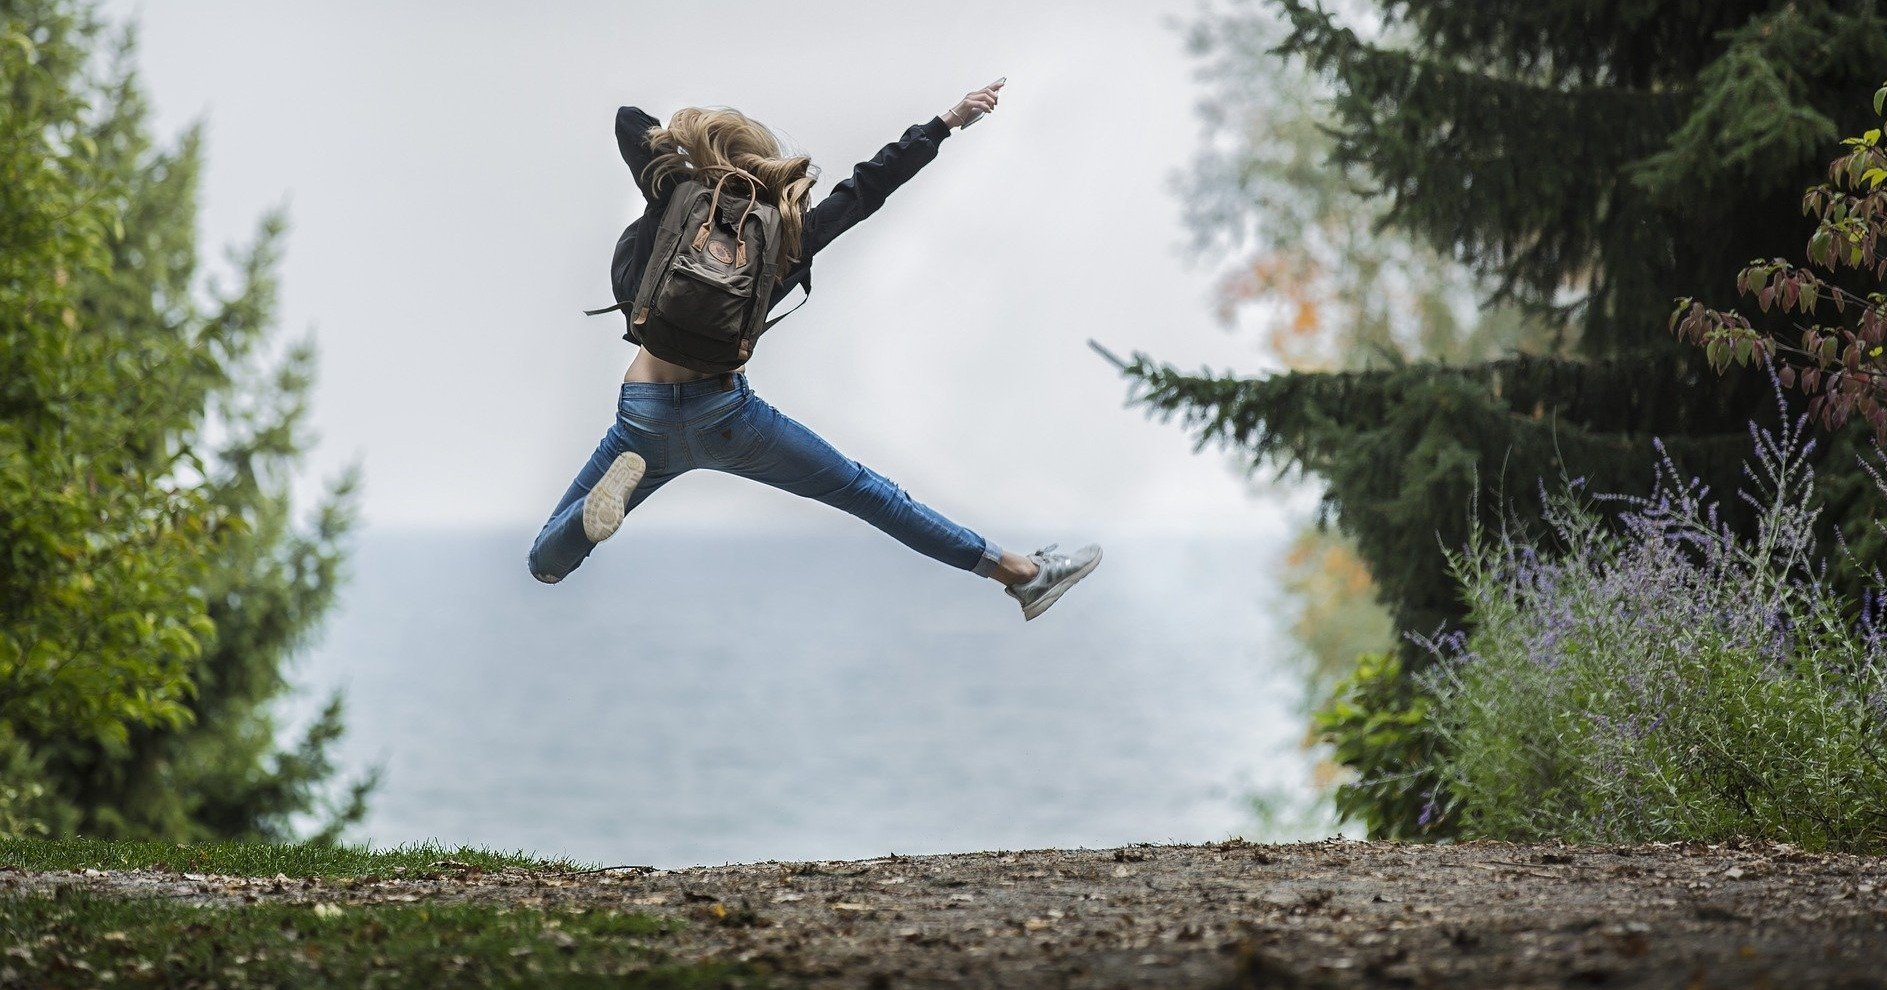
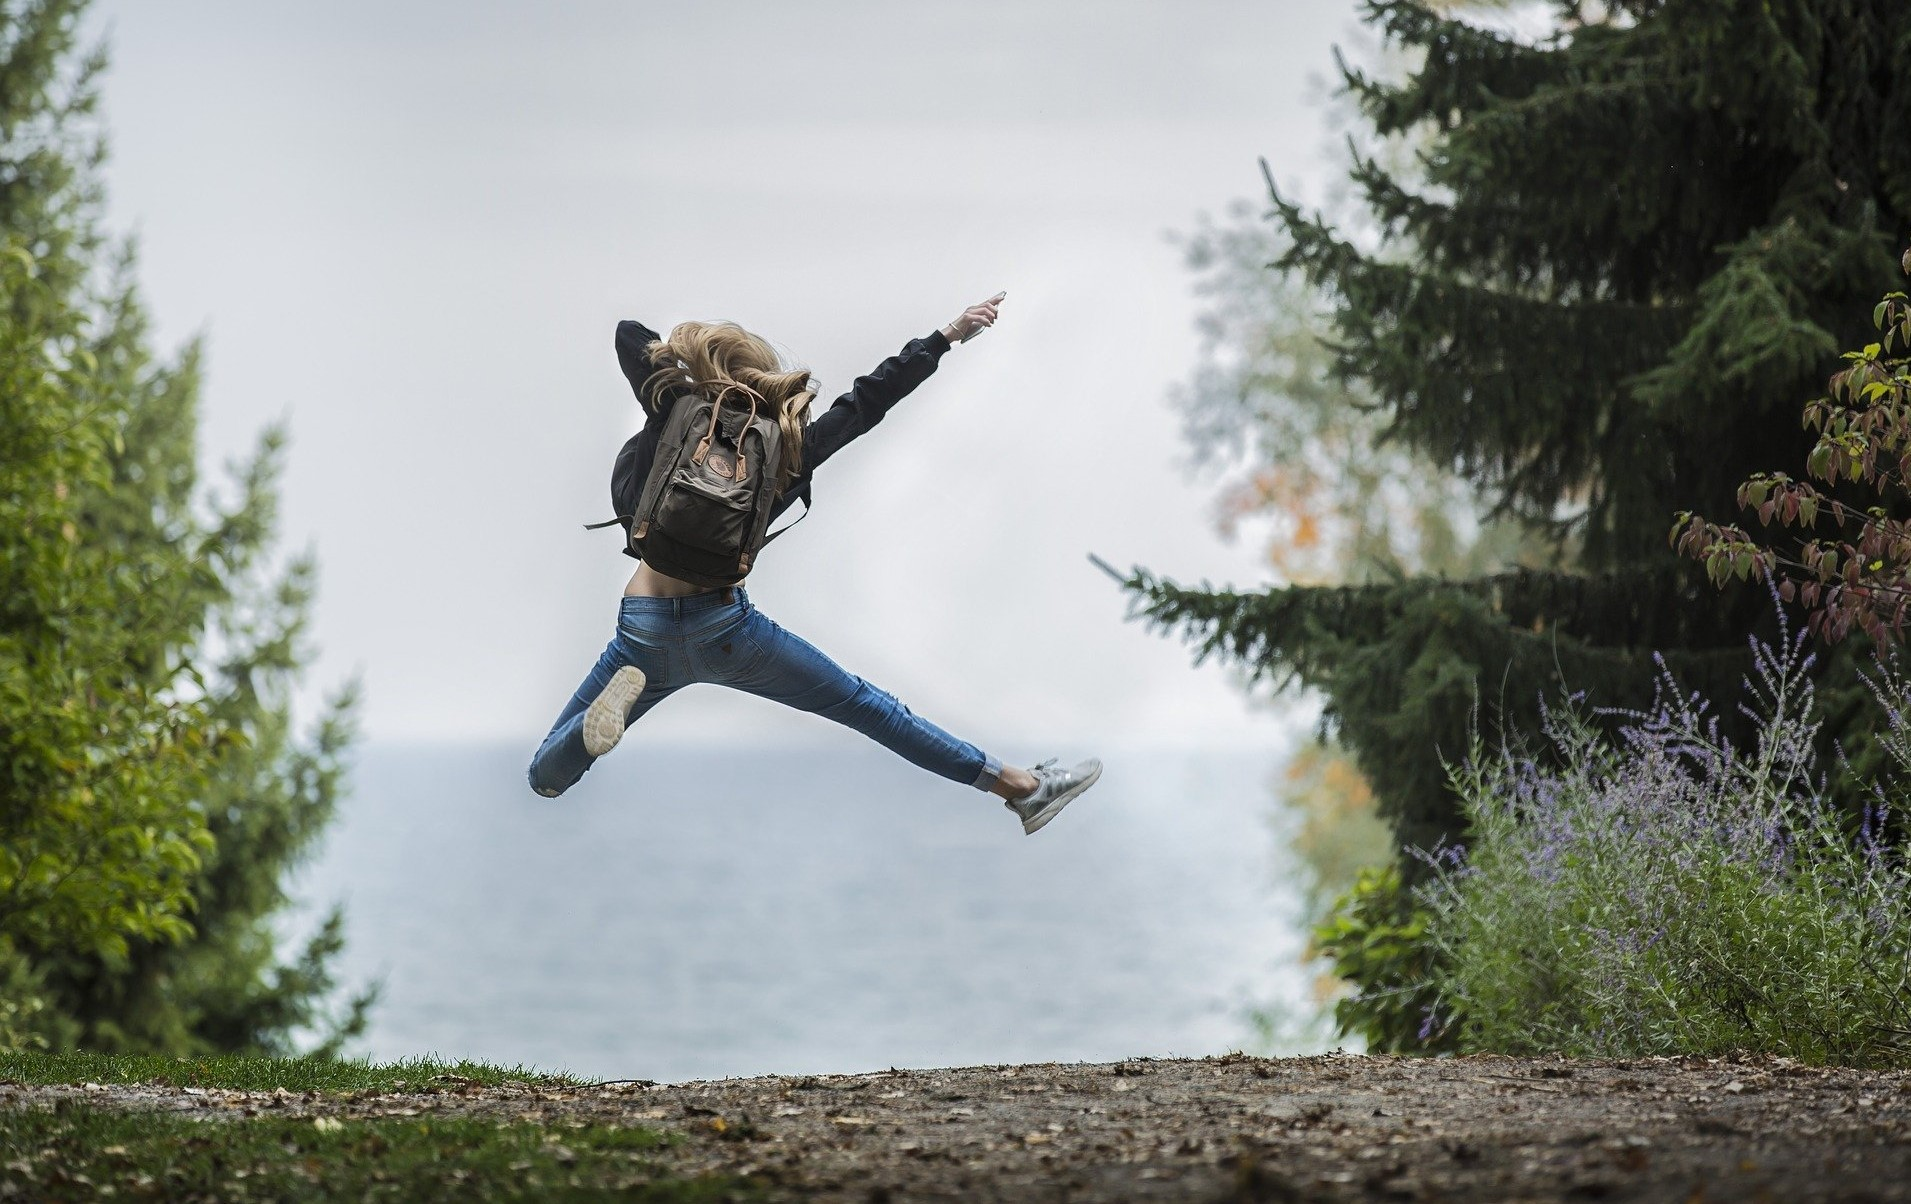
springboard page - add text, changed nav bar, added header and adjusted main image

diff --git a/springboard.html b/springboard.html
@@ -13,26 +13,70 @@
 <Header>
 <!--curtain nav bar-->
 <div class="container-fluid">
-    <div id="myNav" class="springboard-overlay">
-        <div class="closemenu">&times;
-            <div class="springboard-overlay-content">
-                <a href="index.html">Homepage</a>
-                <a href="therapies.html">Therapies</a>
-                <a href="contact.html">Contact</a>
-                <a href="springboard.html">"Springboard"</a>
+    <div class="row no-gutters">
+        <div class="col-lg-6 springboard-header">
+            <h1>Springboard</h1>
+            <h3>creating a better you</h3>
+        </div>
+        <div class="col-lg-6" id="springboard-nav">
+            <nav class="navbar navbar-expand-md bg-light navbar-light">
+                <button class="navbar-toggler" type="button" data-toggle="collapse" data-target="#collapsibleNavbar">
+                    <span class="navbar-toggler-icon"></span>
+                </button>
+                    <div class="collapse navbar-collapse" id="collapsibleNavbar">
+                        <ul class="navbar-nav">
+                            <li class="nav-item">
+                                <a class="nav-link" href="index.html">Home</a>
+                            </li>
+                            <li class="nav-item">
+                                <a class="nav-link" href="therapies.html">Therapies</a>
+                            </li>
+                            <li class="nav-item">
+                                <a class="nav-link" href="contact.html">Contact Me</a>
+                            </li>  
+                            <li class="nav-item">
+                                <a class="nav-link active" href="springboard.html">"Springboard"</a>
+                            </li>  
+                        </ul>
+                    </div>      
+            </nav>
+        </div>
+    </div>
+</Header>
+<section>
+<!--springboard main image-->
+    <div class="row no-gutters">
+        <div class="col-12">
+            <div class="springboard-image">
+                <h3></h3>
             </div>
         </div>
     </div>
-    <span class="openmenu">&#9776;</span>
-</Header>
-<section>
-<!--Springboard hero image-->
+<!--springboard main text-->
     <div class="row no-gutters">
-        <div class="col-12 springboard-image">
-            <div class="springboard-image-text">
-                <h1>Springboard</h1>
-                <h3>creating a better you...<h3>
+        <div class="col-12 springboard-text">
+            <h4>Did you wake up this morning full of energy and enthusiasm for the day ahead? Do you have a clear direction in life, know where you are going and how you are going to get there?
+            No?... Maybe Springboard can help!</h4>
+            <p>Springboard offers a starting point for those wanting to improve their lives physically, mentally and spiritually. Run by two health practitioners with many years’ experience, and expertise in a variety of therapies, we aim to give participants at our weekend workshops a gentle and supportive introduction to the simple ways in which they can begin to turn their lives around.</p>
+            <p>Our passion is to help people achieve their health goals. We limit our weekends to a small number of participants to make sure that everyone gets the personal attention they need. Each weekend is tailored to provide information, interaction, strategies, and techniques to take away and use.</p> 
+            <p>Our location in the beautiful Welsh countryside, together with delicious healthy home cooked food, ensures that this will be a tranquil and relaxing experience that will allow everyone to unwind and get the maximum benefit from the time spent with us.</p>
+        </div>
+        <div class="col-lg-6 michael-details" >
+            <div class="michael-image">
+                <h5>Michael</h5>
+                <p>Leaving a career in education and management behind him and as a result of experiencing difficult times and significant life trauma, Michael rediscovered his life purpose and developed a passion and desire to help and serve others. He now has a successful wellbeing business supporting individuals to achieve the best version of themselves as a Life Coach, personal trainer, sports massage therapist and yoga teacher.</p>
             </div>
+        </div>
+        <div class="col-lg-6 christine-details" >
+            <div class="christine-image">
+                <h5>Christine</h5>
+                <p>Forced to leave her teaching career through disability, Christine went on to heal herself using the same therapies that she now teaches and shares with others. She incorporates healing, meditation and visualisation, Emotional Freedom Technique, and Natural Nutrition, all of which work with the energy of the human body to restore health and wellbeing.</p>
+            </div>
+        </div>
+        <div class="col-12 weekend-workshops">
+            <h5>Weekend Workshops</h5>
+            <p>We have a range of Health and Wellbeing workshops planned for 2021. However due to the current situation with Covid-19 we are unable to provide details or specific dates at the present time.</p> 
+            <p>Please contact us for further information or to be added to our waiting list. We will email you in due course, as soon as we are able to release dates and programme details.</p>
         </div>
     </div>
 </section>
@@ -43,8 +87,7 @@
             <p><i class="far fa-envelope"></i> Contact us by email <a href="mailto:spring-board@mail.com">spring-board@mail.com</a>
         </div>
         <div class="col-sm-6 col-md-6 springboard-footer-right">
-                <p><i class="fas fa-mobile-alt"></i> Call us: Michael: 07595 041953 / Christine: 07852 500677
-                </p>
+            <p><i class="fas fa-mobile-alt"></i> Call us: Michael: 07595 041953 / Christine: 07852 500677</p>
         </div>
     </div>
     <div class="row no-gutters springboard-copywrite">

diff --git a/assets/css/style.css b/assets/css/style.css
@@ -331,75 +331,74 @@
   font-family: 'Roboto', sans-serif;
   color: white;
 }
-/*springboard curtain nav bar */
-.springboard-overlay {
-  height: 0%;
-  width: 100%;
-  position: fixed;
-  z-index: 1;
-  top: 0;
-  left: 0; 
-  background-color: rgba(126, 113, 194, .8);
-  overflow-y: hidden;
-  transition: 0.5s;
-}
-.springboard-overlay-content {
-  position: relative;
-  top: 25%;
-  width: 100%;
-  text-align: center;
-  margin-top: 30px;
-}
-.springboard-overlay a {
-  padding: 8px;
-  text-decoration: none;
-  font-size: 30px;
-  color: white;
-  display: block;
-  transition: 0.3s;
-}
-.springboard-overlay a:hover, .overlay a:focus {
-  color: #f1f1f1;
-}
-.springboard-overlay {
-  position: absolute;
-  top: 20px;
-  left: 10px;
-  font-size: 30px;
-}
-@media screen and (max-height: 450px) {
-  .springboard-overlay {overflow-y: auto;}
-  .springboard-overlay a {font-size: 20px}
-}
-.openmenu {
-    font-size: 30px;
-}
-/* Springboard hero image*/
-.springboard-image {
-  background-image: linear-gradient(rgba(0, 0, 0, 0.2), rgba(0, 0, 0, 0.2)), url('/assets/images/jumping.jpg');
-  width:100%;
-  height:600px;
-  background-repeat: no-repeat;
-  background-size:cover;
-  background-attachment: fixed;
-  border-top: solid 10px #7E71C2;
-  border-bottom: solid 10px #7E71C2;
-}
-.springboard-image-text {
+/*springboard nav bar */
+.springboard-header {
     font-family: 'Comfortaa', cursive;
-    text-shadow: 2px 2px 5px white;
+    color: #6B55AC;
+    text-shadow: 2px 2px 5px #6B55AC;
     letter-spacing: 3px;
     position: absolute;
-    top: 60%;
-    right: 2%;
+    padding: 20px 20px;
 }
-.springboard-image-text h1 {
-  font-family: 'Comfortaa', cursive;
-  color: white;
+#springboard-nav {
+    font-family: 'Comfortaa', cursive;
+    letter-spacing: 2px;
 }
-.springboard-image-text h3 {
-  font-family: 'Comfortaa', cursive;
-  color: white;
+#springboard-nav ul li a {
+    color: #6B55AC;
+    padding: 20px 20px;
+}
+.nav-item active {
+    border: none;
+    outline: none;
+    padding: 10px 16px;
+    background-color: #f1f1f1;
+    cursor: pointer;
+}
+.active, .nav-item:hover {
+    background-color: #E3E5E8;
+    color: white;
+}
+/* Springboard main image*/
+.springboard-image {
+    background-image: linear-gradient(rgba(0, 0, 0, 0), rgba(0, 0, 0, 0)), url('/assets/images/jumping.jpg');
+    width:100%;
+    height:600px;
+    background-repeat: no-repeat;
+    background-size:cover;
+}
+/* springboard text */
+.springboard-text h4 {
+    font-family: 'Comfortaa', cursive;
+    text-align: center;
+}
+.springboard-text p {
+    font-family: 'Comfortaa', cursive;
+    text-align: center;
+}
+.michael-details h5 {
+    font-family: 'Comfortaa', cursive;
+    text-align: center;
+}
+.michael-details p {
+    font-family: 'Comfortaa', cursive;
+    text-align: center;
+}
+.christine-details h5 {
+    font-family: 'Comfortaa', cursive;
+    text-align: center;
+}
+.christine-details p {
+    font-family: 'Comfortaa', cursive;
+    text-align: center;
+}
+.weekend-workshops h5 {
+    font-family: 'Comfortaa', cursive;
+    text-align: center;
+}
+.weekend-workshops p {
+    font-family: 'Comfortaa', cursive;
+    text-align: center;
 }
 /* springboard footer */
 .springboard-footer {
